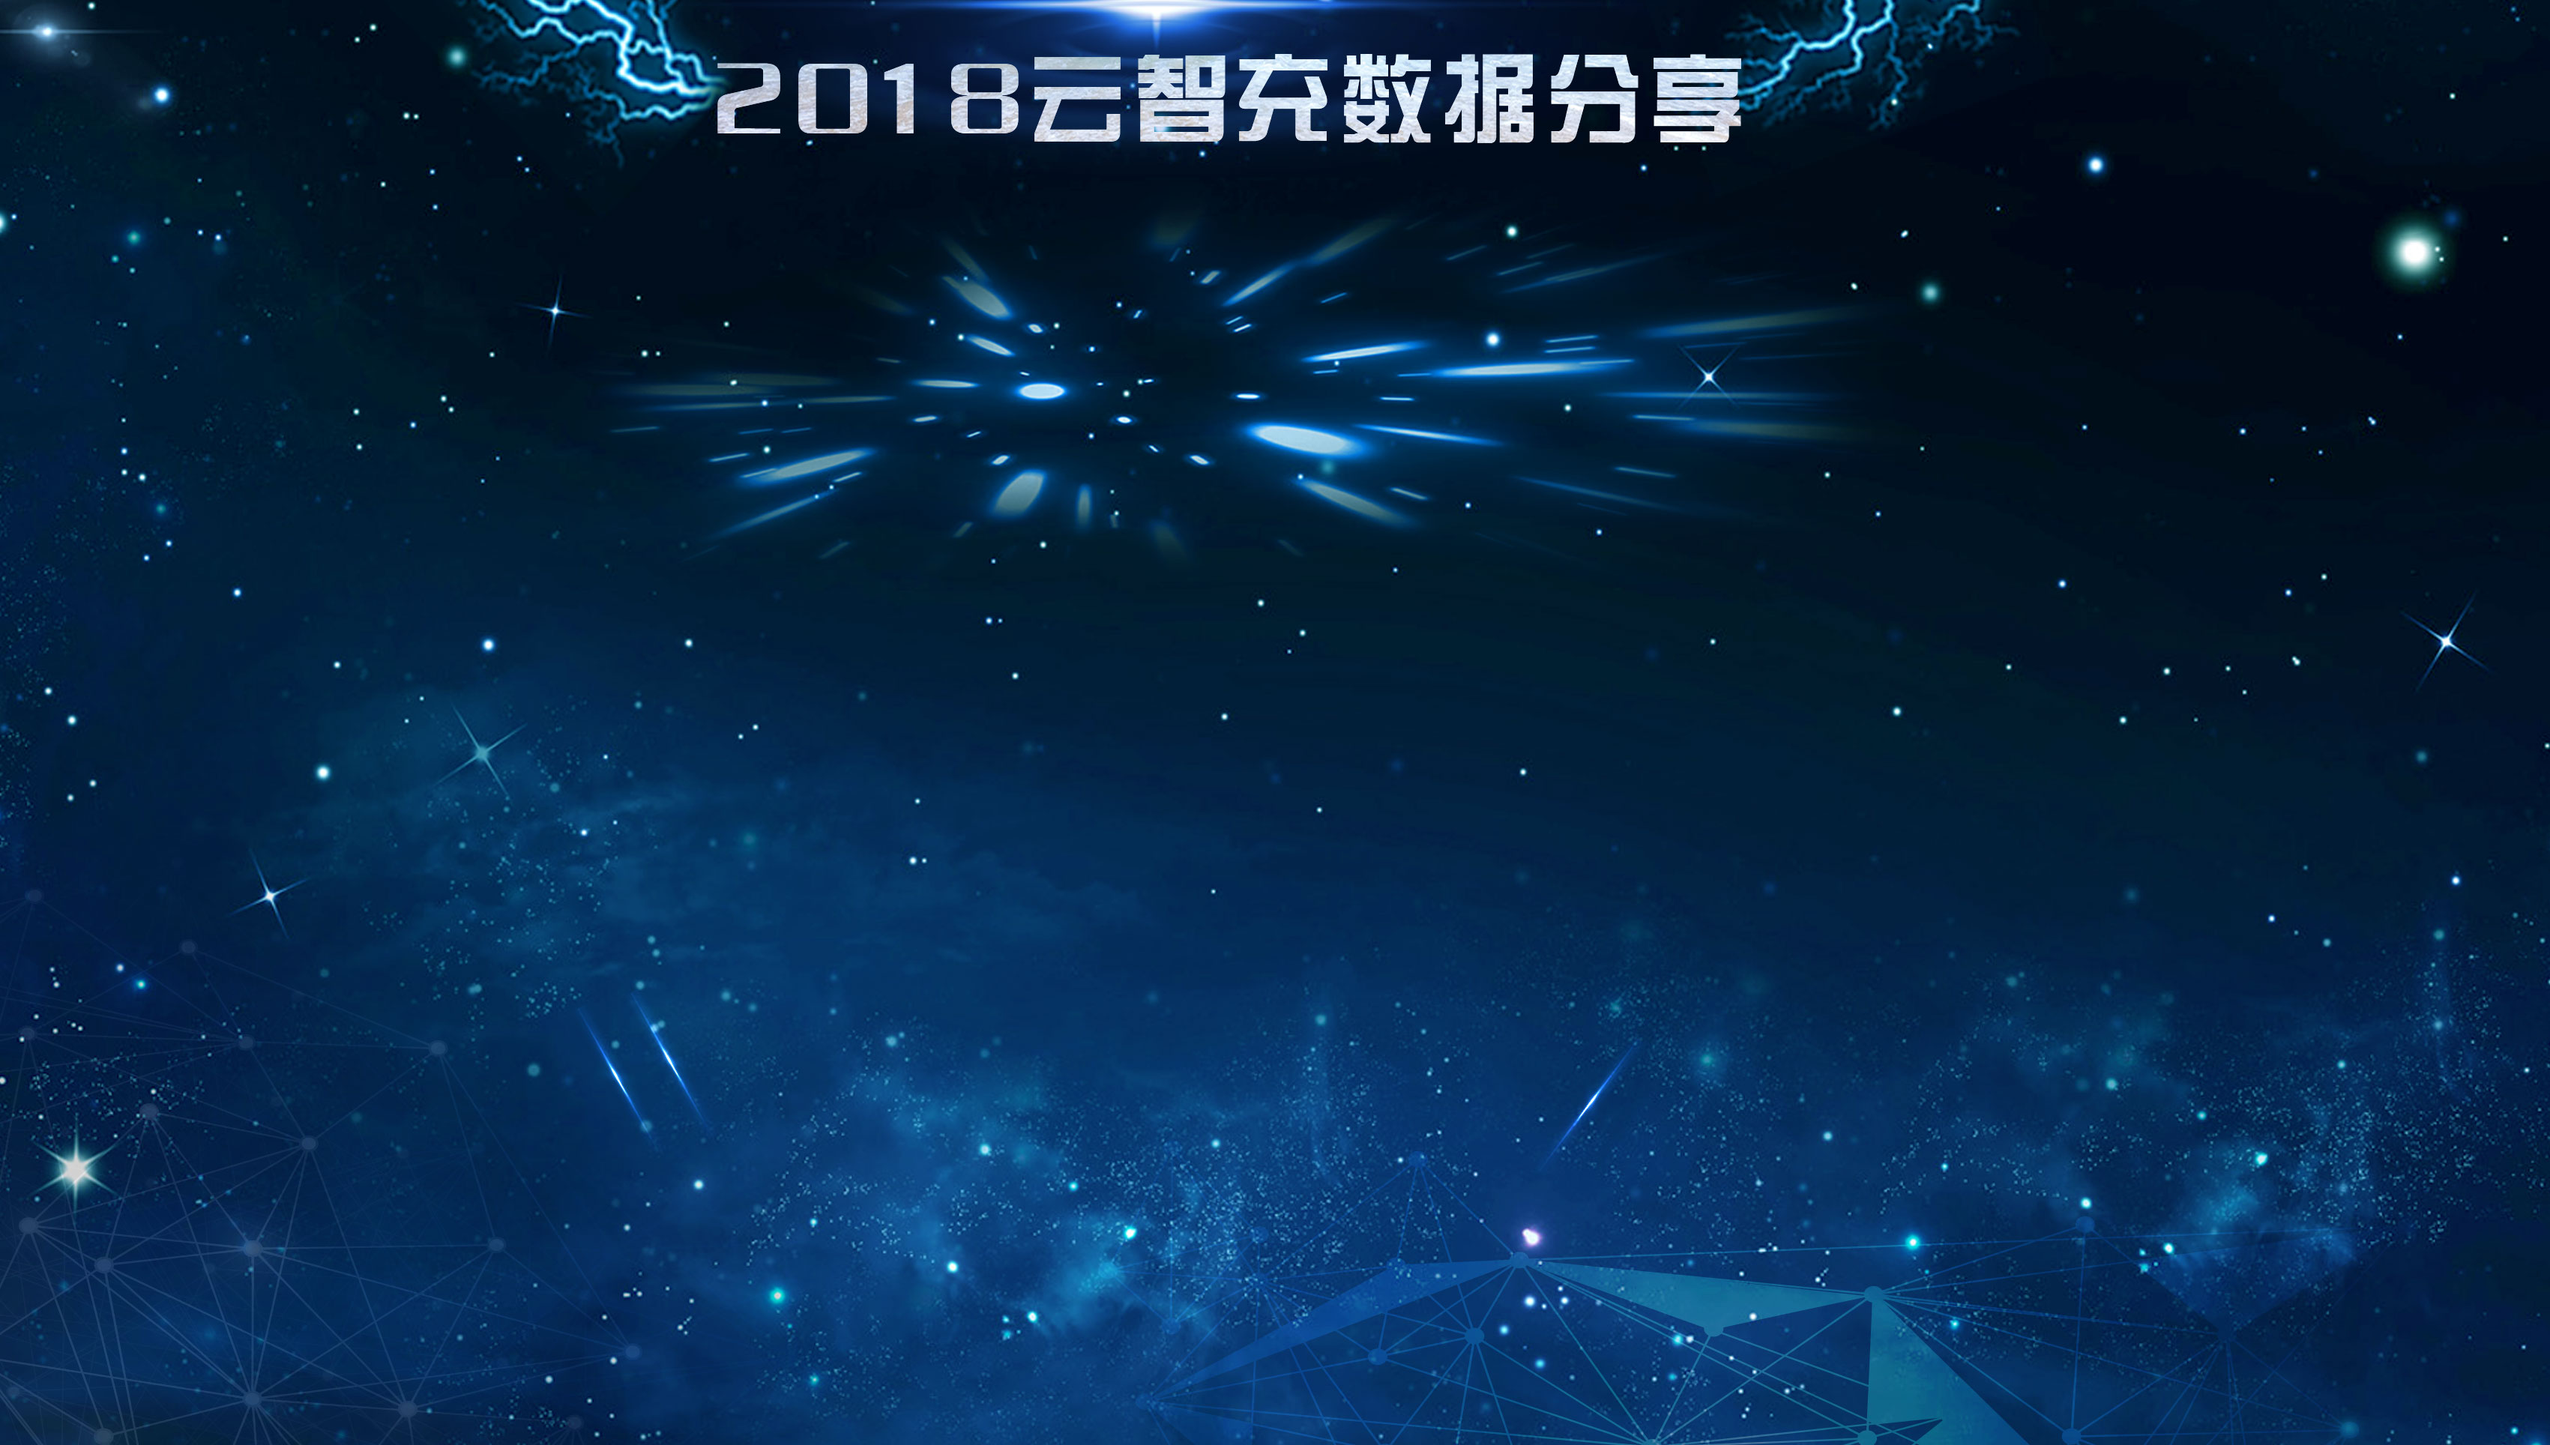
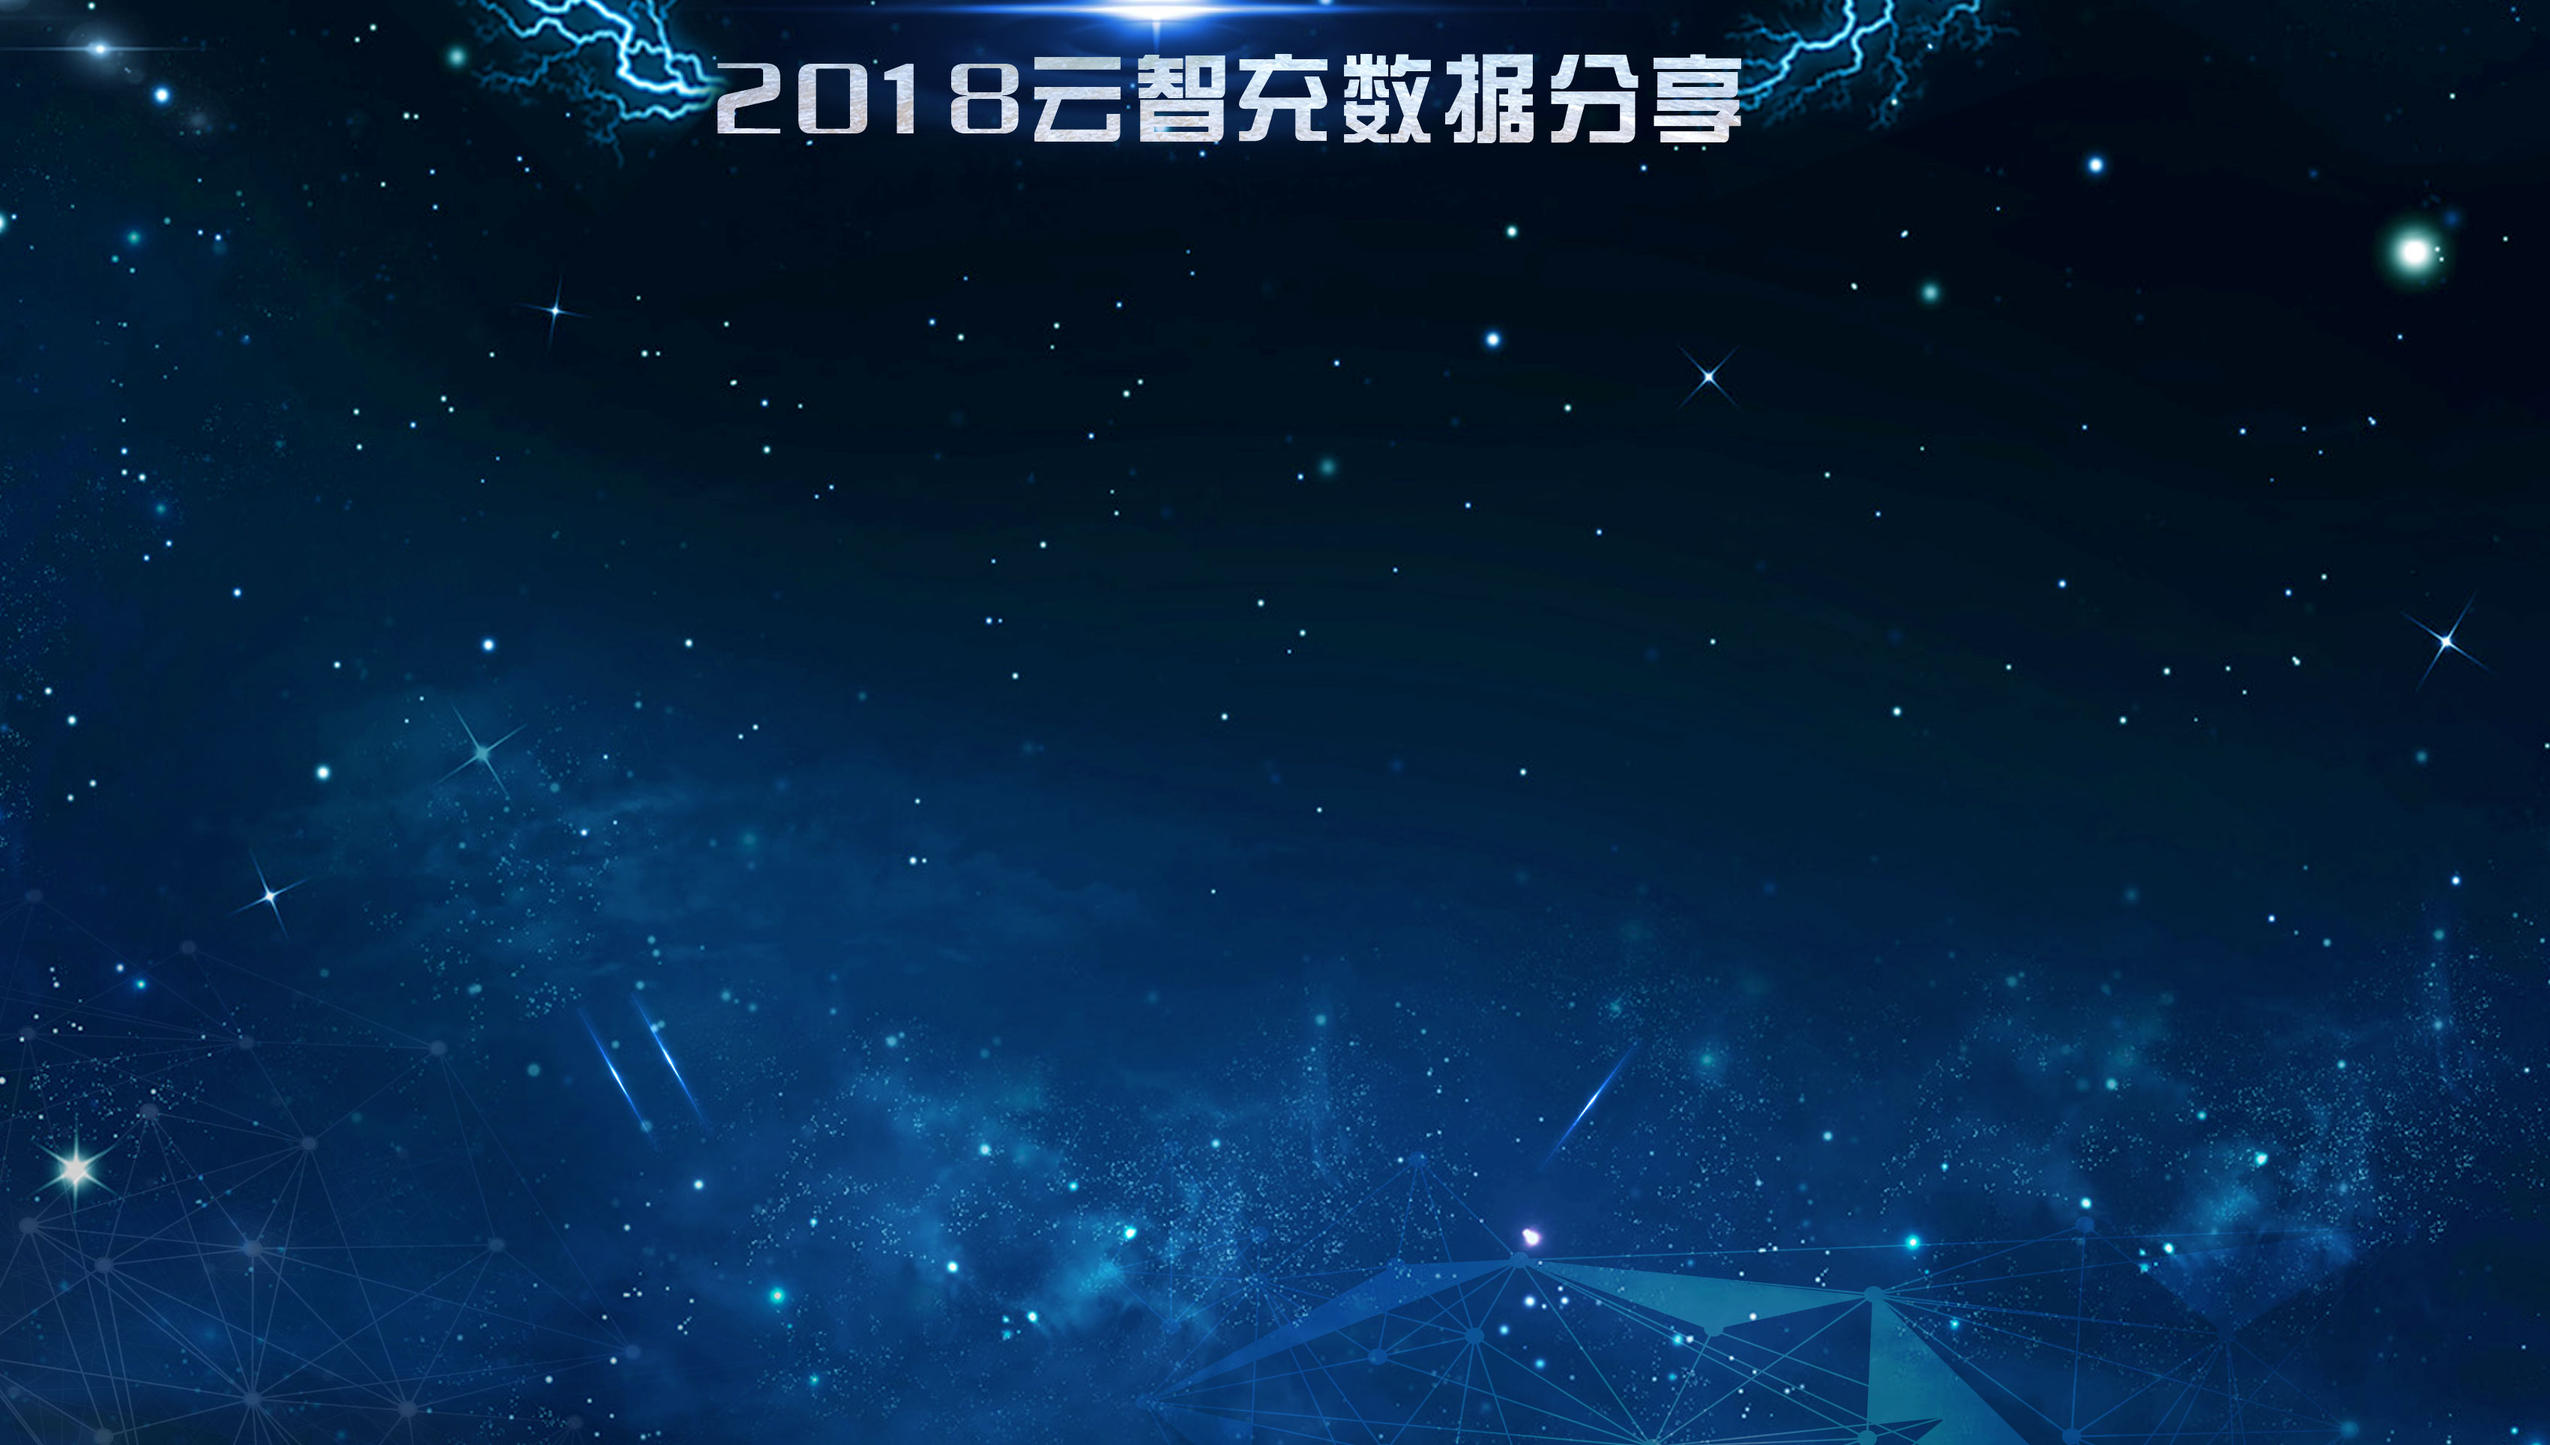
### 背景图片更换  ### Quenton

diff --git a/page2.html b/page2.html
@@ -70,10 +70,5 @@
 		</div>
 	</div>
 	<script src="js/page2.js"></script>
-	
-	<!--<script type="text/html" id="Num">
-		<span style="font-size: 0.2rem;">共计</span>
-		<span style="font-weight: blod;">2630台</span>
-	</script>-->
 </body>
 </html>

diff --git a/css/index.css b/css/index.css
@@ -1,3 +1,4 @@
+.container {background-image: url(../images/index.jpg);}
 .wrap{padding-top:0.5rem;position:relative;}
 .wrap-left{width:7.02rem;height:100%;}
 .warp-mid{width:1600px;max-width:1600px;height:100%;overflow:hidden;}
